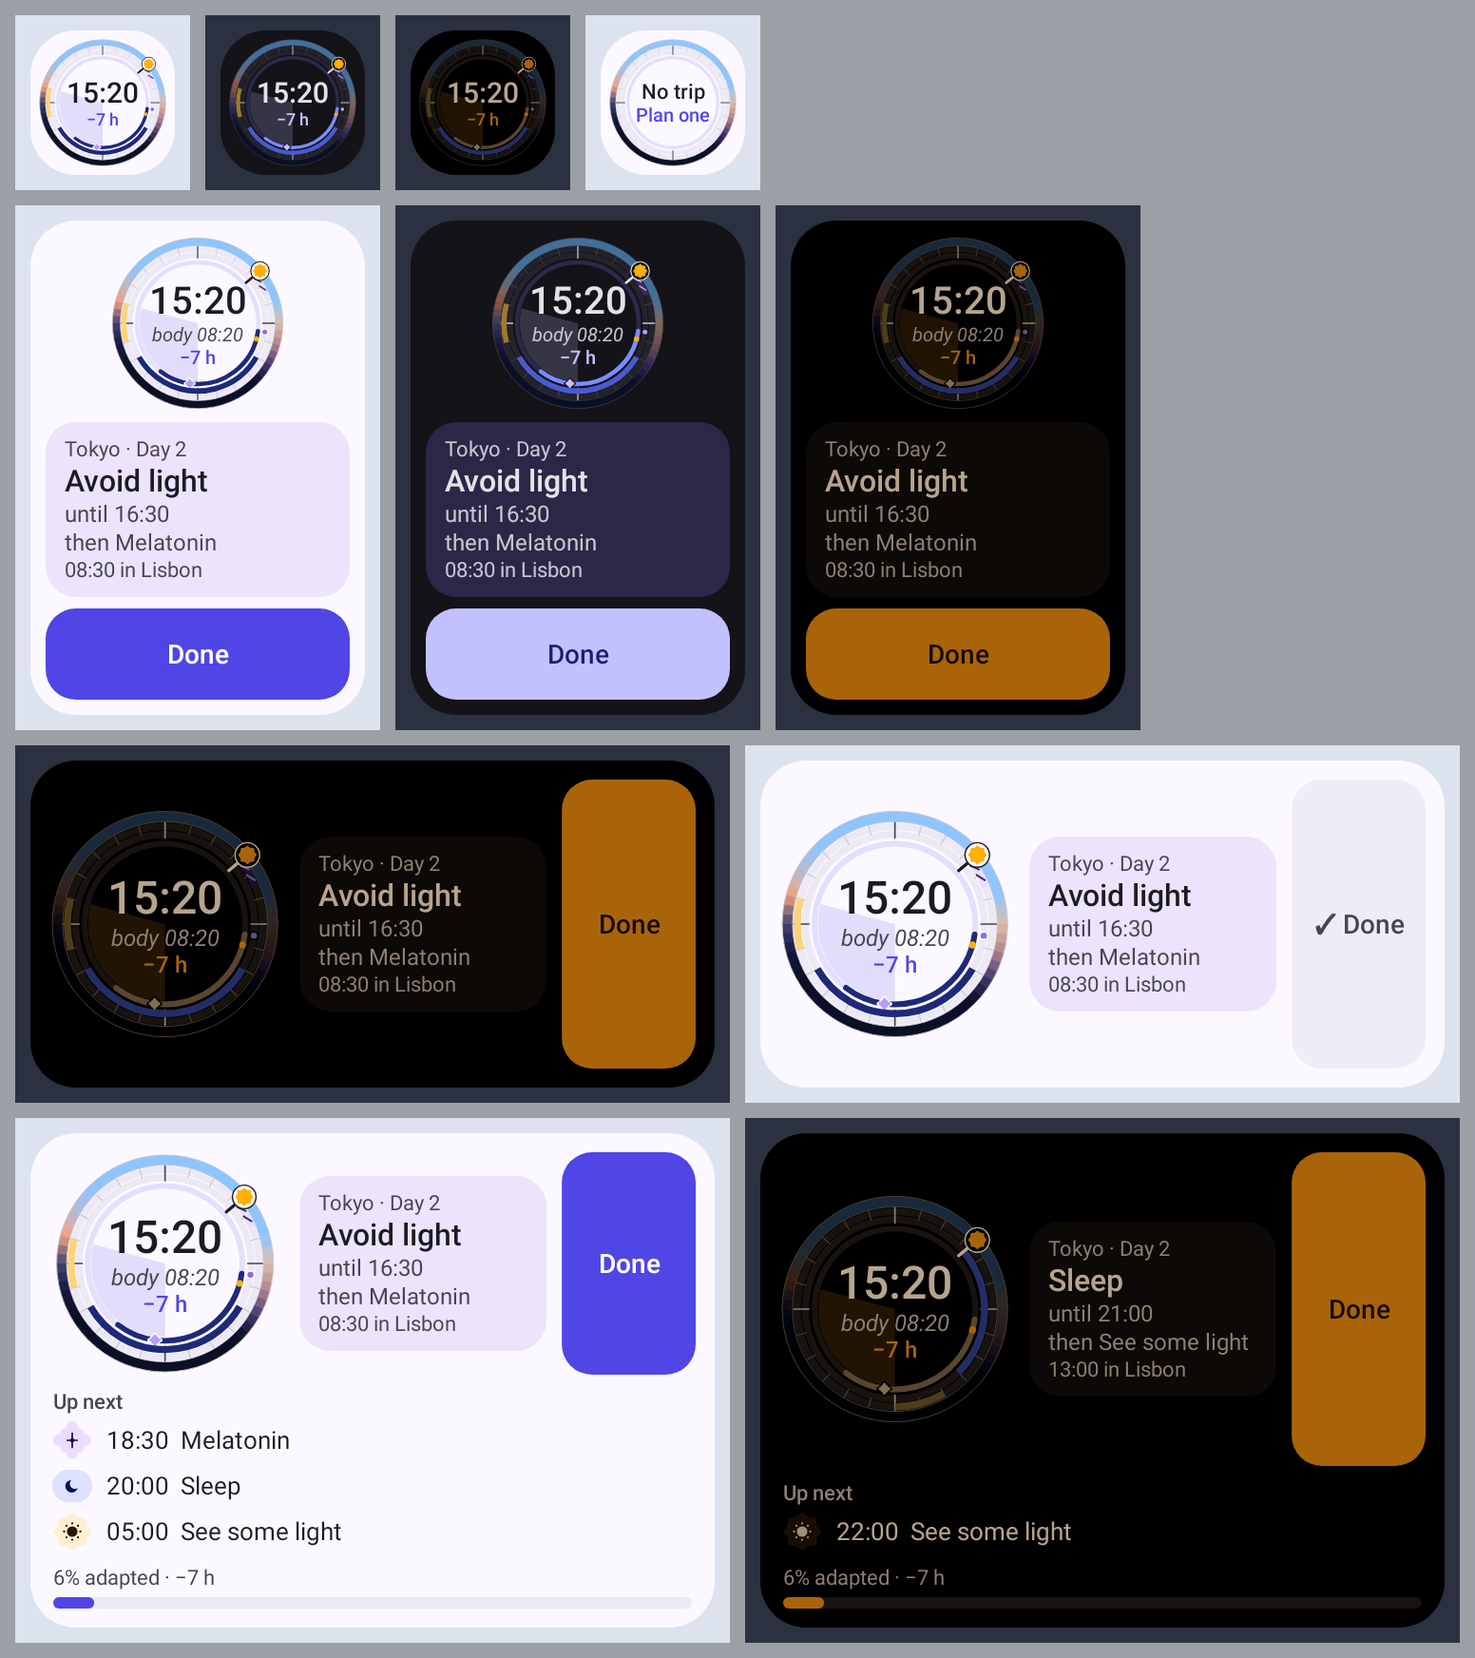
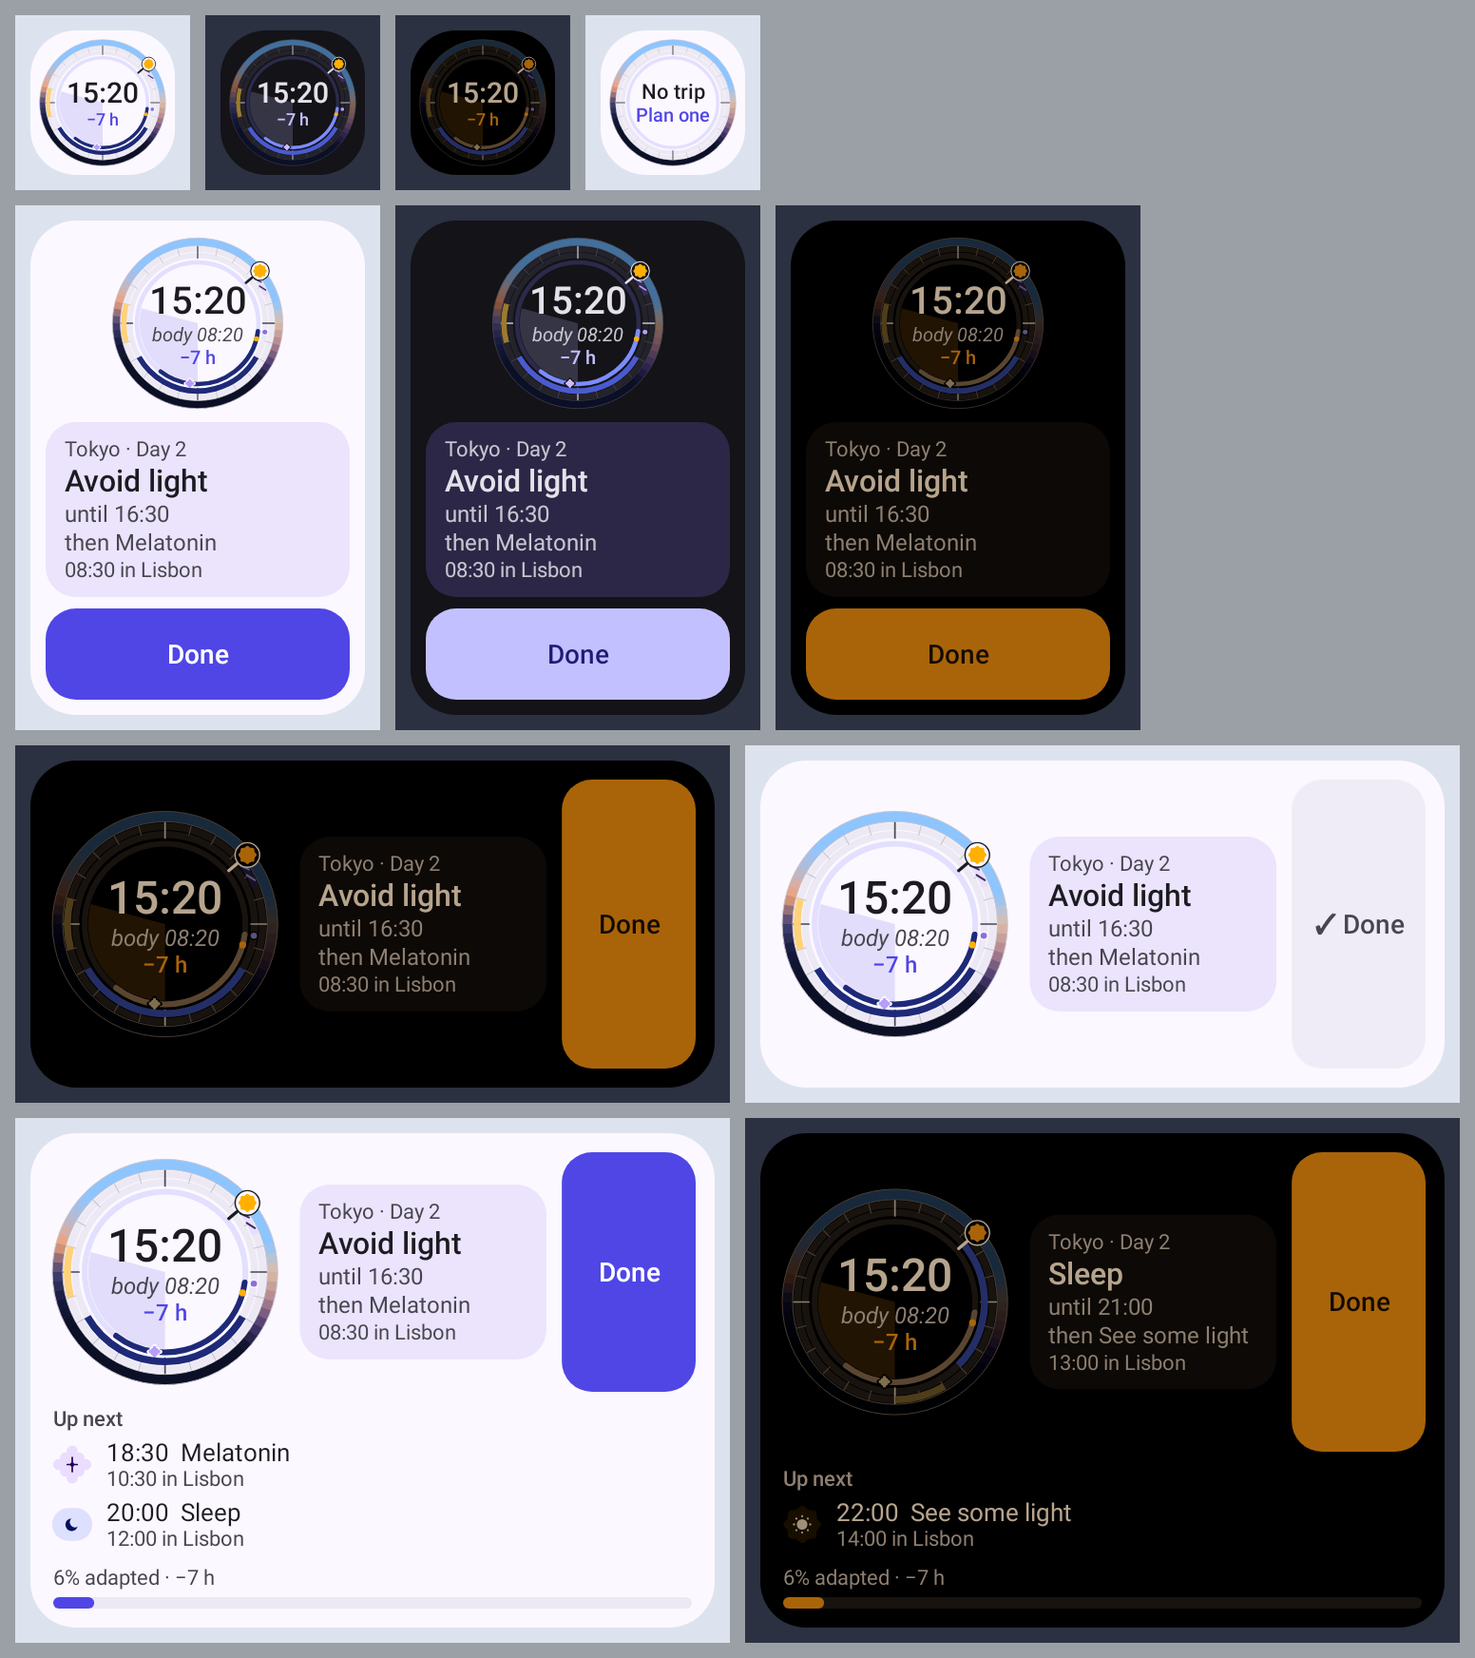
widget: per-advice Done token, clear Done listener once logged, secondary-zone times in Up next

diff --git a/widget/src/main/kotlin/dev/sebastiano/clockblocker/opus/widget/legacy/LegacyRemoteViews.kt b/widget/src/main/kotlin/dev/sebastiano/clockblocker/opus/widget/legacy/LegacyRemoteViews.kt
@@ -20,7 +20,7 @@ import dev.sebastiano.clockblocker.opus.widget.draw.WidgetPalette
 import dev.sebastiano.clockblocker.opus.widget.rc.DeepLinkIntents
 import dev.sebastiano.clockblocker.opus.widget.rc.NextUpLayout
 import dev.sebastiano.clockblocker.opus.widget.rc.MAX_THREE_LINE_FONT_SCALE
-import dev.sebastiano.clockblocker.opus.widget.rc.TALL_UP_NEXT_ROWS
+import dev.sebastiano.clockblocker.opus.widget.rc.UP_NEXT_ROWS
 import dev.sebastiano.clockblocker.opus.widget.rc.TwoClocksLayout
 import dev.sebastiano.clockblocker.opus.widget.rc.WidgetModel
 import dev.sebastiano.clockblocker.opus.widget.state.DialMath
@@ -211,7 +211,7 @@ object LegacyRemoteViews {
                 val tall = layout == NextUpLayout.Tall
                 setViewVisibility(R.id.spacer_middle, if (tall) View.GONE else View.VISIBLE)
                 setViewVisibility(R.id.spacer_end, if (tall) View.VISIBLE else View.GONE)
-                upNext(context, model, show = tall, maxRows = TALL_UP_NEXT_ROWS)
+                upNext(context, model, show = tall, barWithRows = false)
             }
             if (layout == NextUpLayout.Ribbon) capsules(context, model)
             setContentDescription(R.id.main, "${texts.title}. ${texts.subtitle}")
@@ -236,20 +236,22 @@ object LegacyRemoteViews {
         setTextViewText(R.id.done_label, done.label)
         setTextColor(R.id.done_label, if (logged) p.onSurfaceVariant else p.onPrimary)
         setContentDescription(R.id.done, done.contentDescription)
-        if (!logged) {
-            setOnClickPendingIntent(R.id.done, NotificationIntents.widgetDone(context, done.tripId, done.adviceId))
-        }
+        // Explicitly cleared once logged: hosts reapply same-layout updates, so an old listener would survive.
+        setOnClickPendingIntent(
+            R.id.done,
+            if (logged) null else NotificationIntents.widgetDone(context, done.tripId, done.adviceId),
+        )
     }
 
     /**
-     * "Up next" rows and the adaptation bar (`widget_up_next_legacy.xml`). Same rule as the Remote Compose `UpNext`:
-     * with fewer than three rows the bar only shows when nothing is up next.
+     * "Up next" rows and the adaptation bar (`widget_up_next_legacy.xml`). Same rules as the Remote Compose `UpNext`:
+     * at most [UP_NEXT_ROWS] two-line rows, and the bar shows when [barWithRows] or when nothing is up next.
      */
-    private fun RemoteViews.upNext(context: Context, model: WidgetModel, show: Boolean, maxRows: Int = 3) {
+    private fun RemoteViews.upNext(context: Context, model: WidgetModel, show: Boolean, barWithRows: Boolean = true) {
         val p = model.palette
         val texts = model.texts.let { t ->
-            val upcoming = t.upcoming.take(maxRows)
-            val bar = maxRows >= 3 || upcoming.isEmpty()
+            val upcoming = t.upcoming.take(UP_NEXT_ROWS)
+            val bar = barWithRows || upcoming.isEmpty()
             t.copy(upcoming = upcoming, adaptation = t.adaptation.takeIf { bar }, adaptationLabel = t.adaptationLabel.takeIf { bar })
         }
         if (!show || (texts.upcoming.isEmpty() && texts.adaptation == null)) {
@@ -261,16 +263,17 @@ object LegacyRemoteViews {
         setViewVisibility(R.id.up_next_title, if (texts.upcoming.isEmpty()) View.GONE else View.VISIBLE)
         val density = context.resources.displayMetrics.density
         listOf(
-            Triple(R.id.row_0, R.id.row_0_glyph, R.id.row_0_text),
-            Triple(R.id.row_1, R.id.row_1_glyph, R.id.row_1_text),
-            Triple(R.id.row_2, R.id.row_2_glyph, R.id.row_2_text),
-        ).forEachIndexed { i, (row, glyph, text) ->
+            listOf(R.id.row_0, R.id.row_0_glyph, R.id.row_0_text, R.id.row_0_secondary),
+            listOf(R.id.row_1, R.id.row_1_glyph, R.id.row_1_text, R.id.row_1_secondary),
+            listOf(R.id.row_2, R.id.row_2_glyph, R.id.row_2_text, R.id.row_2_secondary),
+        ).forEachIndexed { i, (row, glyph, text, secondary) ->
             val item = texts.upcoming.getOrNull(i)
             setViewVisibility(row, if (item != null) View.VISIBLE else View.GONE)
             if (item != null) {
                 setImageViewBitmap(glyph, glyphBitmap(GlyphKind.Advice(item.type), p, (20 * density).toInt()))
                 setTextViewText(text, "${item.time}  ${item.label}")
                 setTextColor(text, p.onSurface)
+                text(secondary, item.secondary, p.onSurfaceVariant)
             }
         }
         val fraction = texts.adaptation
@@ -297,10 +300,10 @@ object LegacyRemoteViews {
         setViewVisibility(R.id.capsules, if (texts.upcoming.isEmpty()) View.INVISIBLE else View.VISIBLE)
         val density = context.resources.displayMetrics.density
         listOf(
-            listOf(R.id.cap_0, R.id.cap_0_bg, R.id.cap_0_glyph, R.id.cap_0_text),
-            listOf(R.id.cap_1, R.id.cap_1_bg, R.id.cap_1_glyph, R.id.cap_1_text),
-            listOf(R.id.cap_2, R.id.cap_2_bg, R.id.cap_2_glyph, R.id.cap_2_text),
-        ).forEachIndexed { i, (cap, bg, glyph, text) ->
+            listOf(R.id.cap_0, R.id.cap_0_bg, R.id.cap_0_glyph, R.id.cap_0_text, R.id.cap_0_secondary),
+            listOf(R.id.cap_1, R.id.cap_1_bg, R.id.cap_1_glyph, R.id.cap_1_text, R.id.cap_1_secondary),
+            listOf(R.id.cap_2, R.id.cap_2_bg, R.id.cap_2_glyph, R.id.cap_2_text, R.id.cap_2_secondary),
+        ).forEachIndexed { i, (cap, bg, glyph, text, secondary) ->
             val item = texts.upcoming.getOrNull(i)
             setViewVisibility(cap, if (item != null) View.VISIBLE else View.INVISIBLE)
             if (item != null) {
@@ -308,6 +311,7 @@ object LegacyRemoteViews {
                 setImageViewBitmap(glyph, glyphBitmap(GlyphKind.Advice(item.type), p, (18 * density).toInt()))
                 setTextViewText(text, "${item.time} ${item.label}")
                 setTextColor(text, p.onSurface)
+                text(secondary, item.secondary, p.onSurfaceVariant)
             }
         }
         texts.upcomingDescription?.let { setContentDescription(R.id.capsules, it) }

diff --git a/widget/src/main/kotlin/dev/sebastiano/clockblocker/opus/widget/rc/WidgetRemoteContent.kt b/widget/src/main/kotlin/dev/sebastiano/clockblocker/opus/widget/rc/WidgetRemoteContent.kt
@@ -84,8 +84,11 @@ private const val NEXT_UP_TINT = 0.35f
 /** Width share of the Done column next to a weight-1 main region (rows only take weights: see [NextUpRemote]). */
 private const val DONE_WEIGHT = 0.3f
 
-/** Up next rows in the 2×3 / 4×3 Next up stack (three plus the bar only fit the 4×3 Two Clocks). */
-internal const val TALL_UP_NEXT_ROWS = 2
+/**
+ * "Up next" rows in the stacked layouts. Each row has two lines (time + label, then the secondary-zone time), so two
+ * rows fit; the 2×3 / 4×3 Next up stack shows the adaptation bar only when nothing is up next.
+ */
+internal const val UP_NEXT_ROWS = 2
 
 /** Above this font scale the 4×1 row drops its secondary-zone line (it would be clipped). */
 internal const val MAX_THREE_LINE_FONT_SCALE = 1.15f
@@ -312,7 +315,7 @@ fun NextUpRemote(model: WidgetModel, layout: NextUpLayout = NextUpLayout.Medium)
                         model,
                         RemoteModifier.fillMaxWidth().weight(1f).padding(start = 0.rdp, top = 10.rdp, end = 0.rdp, bottom = 0.rdp),
                         rows = true,
-                        maxRows = TALL_UP_NEXT_ROWS,
+                        barWithRows = false,
                     )
                 }
             }
@@ -442,18 +445,23 @@ private fun NowStack(model: WidgetModel, withThen: Boolean = true) {
 }
 
 /**
- * "Up next": the next blocks (glyph + start time + label, never a glyph alone) and the adaptation bar. [rows] lists
- * them vertically (at most [maxRows]; with fewer than three rows the adaptation bar only shows when nothing is up
- * next, the bar and three rows don't fit a 2×3 cell); otherwise they sit side by side as capsules (4×2 ribbon).
- * Opens the plan like the main region.
+ * "Up next": the next blocks (glyph + start time + label, never a glyph alone, with the secondary-zone time below)
+ * and the adaptation bar. [rows] lists at most [maxRows] vertically; the bar shows when [barWithRows] or when nothing
+ * is up next. Otherwise they sit side by side as capsules (4×2 ribbon). Opens the plan like the main region.
  */
 @RemoteComposable
 @Composable
-private fun UpNext(model: WidgetModel, modifier: RemoteModifier, rows: Boolean, maxRows: Int = 3) {
+private fun UpNext(
+    model: WidgetModel,
+    modifier: RemoteModifier,
+    rows: Boolean,
+    maxRows: Int = UP_NEXT_ROWS,
+    barWithRows: Boolean = true,
+) {
     val p = model.palette
     val texts = model.texts.let { t ->
         val upcoming = t.upcoming.take(if (rows) maxRows else 3)
-        val bar = !rows || maxRows >= 3 || upcoming.isEmpty()
+        val bar = !rows || barWithRows || upcoming.isEmpty()
         t.copy(upcoming = upcoming, adaptation = t.adaptation.takeIf { bar }, adaptationLabel = t.adaptationLabel.takeIf { bar })
     }
     if (texts.upcoming.isEmpty() && texts.adaptation == null) return
@@ -469,16 +477,14 @@ private fun UpNext(model: WidgetModel, modifier: RemoteModifier, rows: Boolean, 
             texts.upcoming.forEach { item ->
                 RemoteRow(modifier = RemoteModifier.fillMaxWidth(), verticalAlignment = RemoteAlignment.CenterVertically) {
                     Glyph(GlyphKind.Advice(item.type), p, 20)
-                    Label(
-                        "${item.time}  ${item.label}".rs,
-                        p.onSurface,
-                        13,
-                        modifier = RemoteModifier.weight(1f).padding(start = 8.rdp, top = 0.rdp, end = 0.rdp, bottom = 0.rdp),
-                    )
+                    RemoteColumn(modifier = RemoteModifier.weight(1f).padding(start = 8.rdp, top = 0.rdp, end = 0.rdp, bottom = 0.rdp)) {
+                        Label("${item.time}  ${item.label}".rs, p.onSurface, 13, maxLines = 1)
+                        item.secondary?.let { Label(it.rs, p.onSurfaceVariant, 11, maxLines = 1) }
+                    }
                 }
             }
         } else if (texts.upcoming.isNotEmpty()) {
-            RemoteRow(modifier = RemoteModifier.fillMaxWidth().height(32.rdp), verticalAlignment = RemoteAlignment.CenterVertically) {
+            RemoteRow(modifier = RemoteModifier.fillMaxWidth().height(40.rdp), verticalAlignment = RemoteAlignment.CenterVertically) {
                 texts.upcoming.forEachIndexed { i, item ->
                     RemoteRow(
                         modifier = RemoteModifier
@@ -491,12 +497,10 @@ private fun UpNext(model: WidgetModel, modifier: RemoteModifier, rows: Boolean, 
                         verticalAlignment = RemoteAlignment.CenterVertically,
                     ) {
                         Glyph(GlyphKind.Advice(item.type), p, 18)
-                        Label(
-                            "${item.time} ${item.label}".rs,
-                            p.onSurface,
-                            11,
-                            modifier = RemoteModifier.weight(1f).padding(start = 4.rdp, top = 0.rdp, end = 0.rdp, bottom = 0.rdp),
-                        )
+                        RemoteColumn(modifier = RemoteModifier.weight(1f).padding(start = 4.rdp, top = 0.rdp, end = 0.rdp, bottom = 0.rdp)) {
+                            Label("${item.time} ${item.label}".rs, p.onSurface, 11, maxLines = 1)
+                            item.secondary?.let { Label(it.rs, p.onSurfaceVariant, 10, maxLines = 1) }
+                        }
                     }
                 }
             }

diff --git a/core/notifications/src/test/kotlin/dev/sebastiano/clockblocker/opus/core/notifications/WidgetDoneIntentTest.kt b/core/notifications/src/test/kotlin/dev/sebastiano/clockblocker/opus/core/notifications/WidgetDoneIntentTest.kt
@@ -1,0 +1,36 @@
+package dev.sebastiano.clockblocker.opus.core.notifications
+
+import android.app.Application
+import androidx.test.core.app.ApplicationProvider
+import dev.sebastiano.clockblocker.opus.core.notifications.receiver.AdviceActionReceiver
+import io.kotest.matchers.shouldBe
+import io.kotest.matchers.shouldNotBe
+import org.junit.Test
+import org.junit.runner.RunWith
+import org.robolectric.RobolectricTestRunner
+import org.robolectric.Shadows.shadowOf
+import org.robolectric.annotation.Config
+
+@RunWith(RobolectricTestRunner::class)
+@Config(sdk = [36])
+class WidgetDoneIntentTest {
+    private val context: Application = ApplicationProvider.getApplicationContext()
+
+    @Test
+    fun `widget Done is the notification Done broadcast for that advice`() {
+        val intent = shadowOf(NotificationIntents.widgetDone(context, "trip-1", "advice-1")).savedIntent
+        intent.component?.className shouldBe AdviceActionReceiver::class.java.name
+        intent.action shouldBe NotificationIntents.adviceAction(context, AdviceAction.Done)
+        intent.getStringExtra(NotificationIntents.EXTRA_TRIP_ID) shouldBe "trip-1"
+        intent.getStringExtra(NotificationIntents.EXTRA_ADVICE_ID) shouldBe "advice-1"
+    }
+
+    @Test
+    fun `each advice gets its own token so a later render never rewrites another's extras`() {
+        // E.g. the picker previews (demo plan) are rendered right after the live widgets.
+        val live = NotificationIntents.widgetDone(context, "trip-1", "advice-1")
+        val demo = NotificationIntents.widgetDone(context, "demo-trip", "demo-advice")
+        live shouldNotBe demo
+        shadowOf(live).savedIntent.getStringExtra(NotificationIntents.EXTRA_ADVICE_ID) shouldBe "advice-1"
+    }
+}

diff --git a/widget/src/main/kotlin/dev/sebastiano/clockblocker/opus/widget/text/WidgetTexts.kt b/widget/src/main/kotlin/dev/sebastiano/clockblocker/opus/widget/text/WidgetTexts.kt
@@ -63,7 +63,8 @@ data class WidgetTexts(
 }
 
 /** One "Up next" row: always a text label next to the glyph, plus its local start time. */
-data class UpcomingText(val type: AdviceType, val label: String, val time: String)
+/** An "Up next" entry: start [time] in the display zone and, like every widget time, the same time in the secondary zone. */
+data class UpcomingText(val type: AdviceType, val label: String, val time: String, val secondary: String? = null)
 
 /**
  * The widget Done button. While [logged] is null it is a button that logs [adviceId] as done; once something is
@@ -154,7 +155,15 @@ internal class WidgetTextFactory(private val context: Context, private val is24H
             s.bodyRelativeMinutes < 0 -> str(R.string.widget_a11y_body_behind, DialMath.formatHoursMagnitude(s.bodyRelativeMinutes))
             else -> str(R.string.widget_a11y_body_ahead, DialMath.formatHoursMagnitude(s.bodyRelativeMinutes))
         }
-        val upcoming = s.upcoming.map { UpcomingText(it.type, label(it.type), time(it.start, zone)) }
+        val secondaryZone = s.secondaryZoneId?.let { ZoneId.of(it) }
+        val upcoming = s.upcoming.map {
+            UpcomingText(
+                it.type,
+                label(it.type),
+                time(it.start, zone),
+                secondaryZone?.let { z -> str(R.string.widget_secondary_time, time(it.start, z), DialMath.cityName(z.id)) },
+            )
+        }
         return WidgetTexts(
             glyph = glyph,
             title = title,

diff --git a/core/notifications/src/main/kotlin/dev/sebastiano/clockblocker/opus/core/notifications/NotificationIntents.kt b/core/notifications/src/main/kotlin/dev/sebastiano/clockblocker/opus/core/notifications/NotificationIntents.kt
@@ -113,11 +113,17 @@ object NotificationIntents {
     /**
      * Done from a home-screen widget: the same broadcast as the notification's Done button, so the outcome is logged
      * once and every surface (Now notification, widgets) refreshes through the scheduler.
+     *
+     * The advice is part of the token's identity (a data URI; extras don't count), so rendering another advice's
+     * button, e.g. the picker previews' demo plan, can never rewrite the extras of a live widget's button.
      */
     fun widgetDone(context: Context, tripId: String, adviceId: String): PendingIntent = PendingIntent.getBroadcast(
         context,
         WIDGET_DONE_REQUEST_CODE,
-        actionIntent(context, AdviceAction.Done, tripId, adviceId),
+        actionIntent(context, AdviceAction.Done, tripId, adviceId)
+            .setData(Uri.Builder().scheme(WIDGET_DONE_SCHEME).appendPath(tripId).appendPath(adviceId).build()),
         PendingIntent.FLAG_UPDATE_CURRENT or PendingIntent.FLAG_IMMUTABLE,
     )
+
+    private const val WIDGET_DONE_SCHEME = "widget-done"
 }

diff --git a/widget/src/test/kotlin/dev/sebastiano/clockblocker/opus/widget/text/WidgetTextsTest.kt b/widget/src/test/kotlin/dev/sebastiano/clockblocker/opus/widget/text/WidgetTextsTest.kt
@@ -133,6 +133,15 @@ class WidgetTextsTest {
     }
 
     @Test
+    fun `up next rows show their time in the secondary zone too`() {
+        // Demo: shown in Tokyo, secondary Lisbon (8 h behind in October).
+        val row = texts(DemoPlans.Scenario.AvoidLight).upcoming.first()
+        val (h, m) = row.time.split(":").map { it.toInt() }
+        val lisbon = "%02d:%02d".format(Math.floorMod(h - 8, 24), m)
+        row.secondary shouldBe "$lisbon in Lisbon"
+    }
+
+    @Test
     fun `adaptation reads as a percentage`() {
         val t = texts(DemoPlans.Scenario.AvoidLight)
         val fraction = t.adaptation.shouldNotBeNull()

diff --git a/docs/surfaces.md b/docs/surfaces.md
@@ -177,7 +177,8 @@ short label. When the plan has no advice left, it shows "Clockblocked".
 
 Each widget picks a layout for the space it gets. On API 31+ the launcher picks from the size map and swaps
 layouts while the user resizes. On older launchers the app picks the largest layout that fits the reported size.
-Both backends have the same layouts.
+Both backends have the same layouts. Every "Up next" entry shows its start time in the other zone too, like every
+other time on the widgets.
 
 | Cells | Two Clocks | Next up |
 |---|---|---|
@@ -187,7 +188,7 @@ Both backends have the same layouts.
 | 2×2 | Dial and a two-line caption | Countdown, label, "until / then", the other zone and Done |
 | 4×2 | Dial, a now card ("Tokyo · Day 2", label, times) and Done | The 4×1 row plus three "Up next" capsules |
 | 2×3 | Dial, now card and Done | The 2×2 stack plus two "Up next" rows |
-| 4×3 | The 4×2 layout plus three "Up next" rows and the adaptation bar | The 2×3 stack, wider |
+| 4×3 | The 4×2 layout plus two "Up next" rows and the adaptation bar | The 2×3 stack, wider |
 
 ![Two Clocks at 1×1, 2×3, 4×2 and 4×3, including night-safe, a logged Done and the adaptation bar](screenshots/widgets/remote_two_clocks_buckets.png)
 

diff --git a/user-guide/widgets-and-notifications.md b/user-guide/widgets-and-notifications.md
@@ -58,7 +58,7 @@ The *Two Clocks* widget is a small version of the dial in the app. It shows the 
 clock thinks it is ("body 08:20"), the gap between them ("−7 h": your body is 7 hours behind), and the current
 block with its end time. The outer ring follows the sky through the day. The bigger sizes add a card with the
 place and plan day ("Tokyo · Day 2"), what comes next, the time in your other time zone, and a **Done** button.
-The biggest size also lists the next blocks and how far you've adapted.
+The biggest size also lists the next blocks (with their time in your other zone) and how far you've adapted.
 
 ### Next up
 
